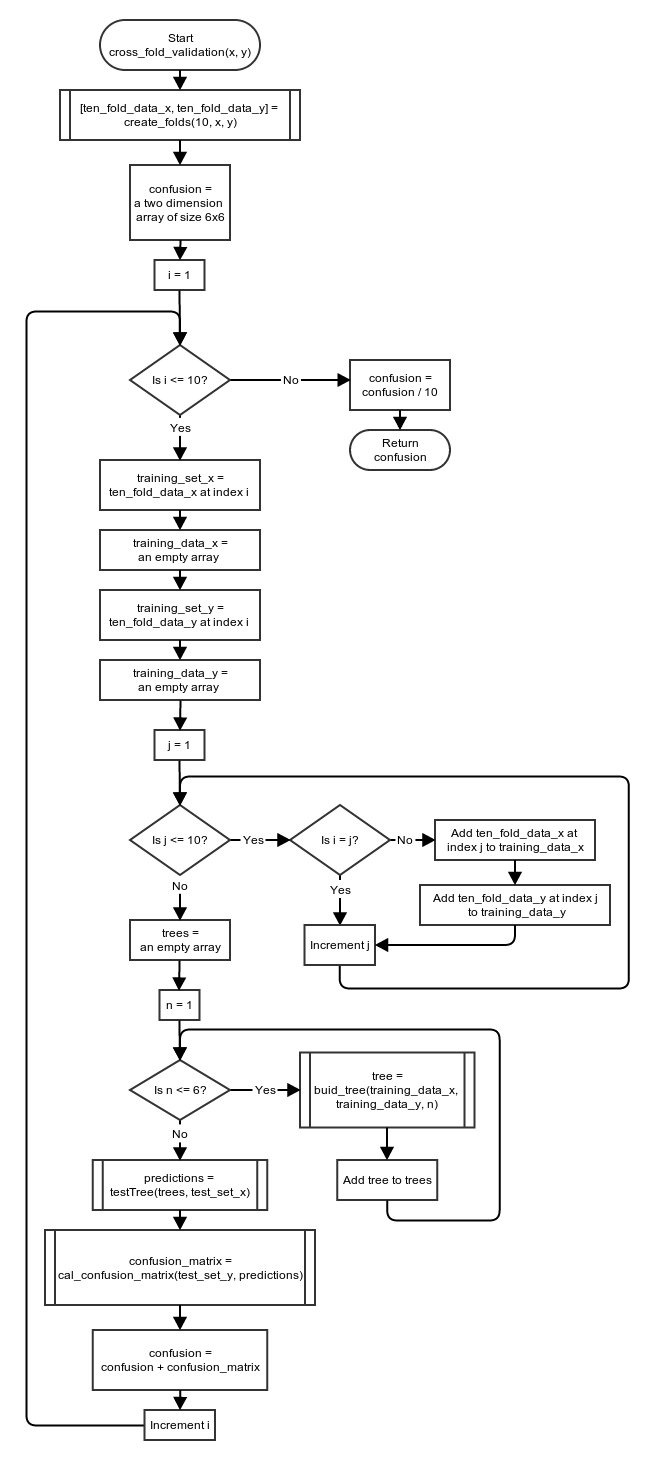
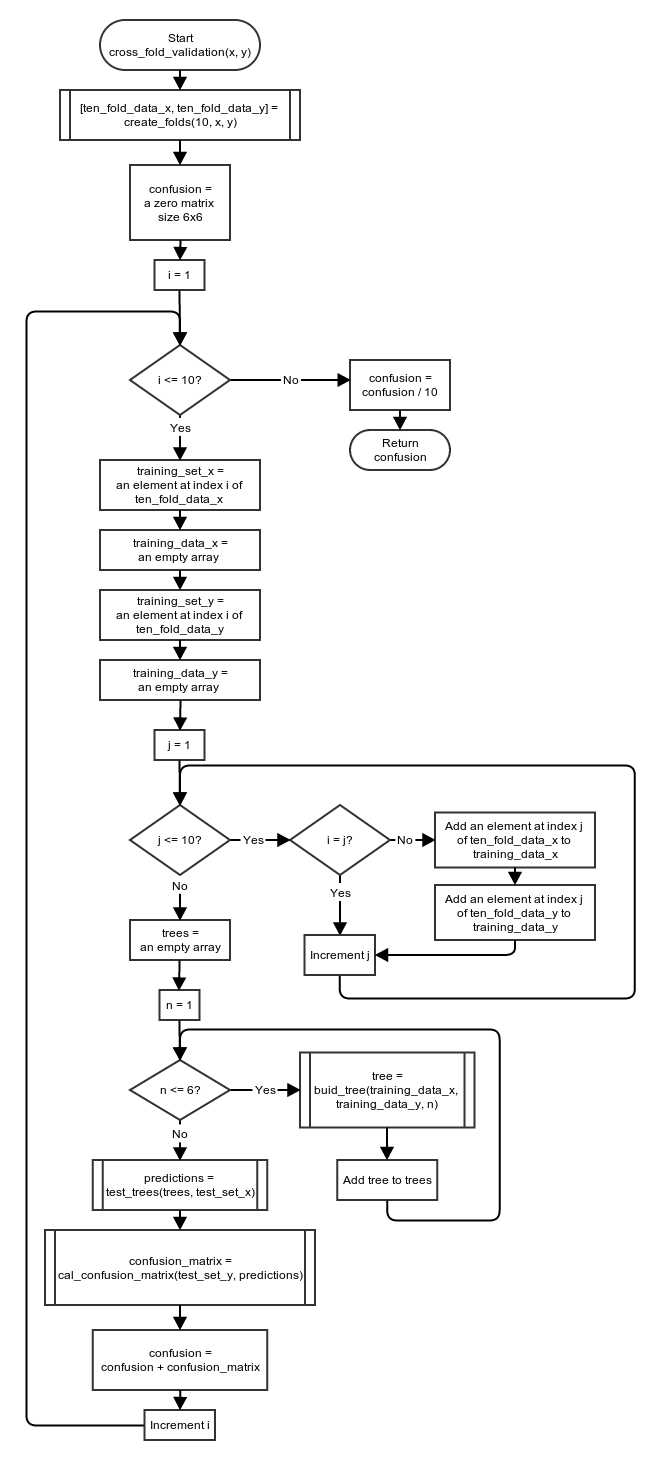
Add some eplanation of flowchart to implementation section

diff --git a/decisiontrees.tex b/decisiontrees.tex
@@ -16,19 +16,19 @@
 
 In order to gather statistical results of our algorithm and compare the performance of different approaches we implemented a few functions that would help us with this task.
 
-To perform 10-fold cross validation efficiently we implemented the function \texttt{cross\_fold \_validation(x, y)} which takes examples \texttt{x} and classifications \texttt{y} and returns a confusion matrix that was found by performing several tests using 10-fold cross validation. In this function, the set of examples are split into 10 folds, leaving out any extra examples so that each fold is of the same size. In 10 iterations the algorithm then removes one of the buckets as the test set and combines the rest into a training set (no validation set is required in this part of the coursework).The training set is then used to train a decision tree using the \texttt{build\_tree(training\_data\_x, training\_data\_y, attribute)} which build the decision tree for the given attribute using the given data (consisting of 9 folds). The function then tests the tree using the \texttt{testTrees} function which returns a vector of predictions. The predictions are then compared to the actual classifications and the results are added to a confusion matrix. After all values have been added from all ten folds the confusion matrix is turned into an average confusion matrix by simply dividing the values by 10 and returned to the user. 
+To perform 10-fold cross validation efficiently we implemented the function \texttt{cross\_fold \_validation(x, y)}(Figure~\ref{fig:cross_fold_validation}) which takes examples \texttt{x} and classifications \texttt{y} and returns a confusion matrix that was found by performing several tests using 10-fold cross validation. In this function, the set of examples are split into 10 folds using function {\tt create\_folds(10, x, y)}(Figure~\ref{fig:create_folds}), leaving out any extra examples so that each fold is of the same size. In 10 iterations the algorithm then removes one of the buckets as the test set and combines the rest into a training set (no validation set is required in this part of the coursework).The training set is then used to train a decision tree using the \texttt{build\_tree(training\_data\_x, training\_data\_y, attribute)}(Figure~\ref{fig:build_tree}) which build the decision tree for the given attribute using the given data (consisting of 9 folds). The given {\tt training\_data\_y} is converted into a vector of binary target using function {\tt binary\_filter}(Figure~\ref{fig:binary_filter}). The function then tests the trees using the \texttt{test\_trees} function(Figure~\ref{fig:test_trees}) which returns a vector of predictions by calling function {\tt test\_tree}(Figure~\ref{fig:test_tree}) for each tree. If there are more than one tree that return true, an aprropiate algorithm(first positive, random positive, or shortest path) will be applied. The predictions are then compared to the actual classifications and the results are added to a confusion matrix. After all values have been added from all ten folds the confusion matrix is turned into an average confusion matrix by simply dividing the values by 10 and returned to the user. 
 
-Note that this means that any error rate or other statistics given in this report is based on the average confusion matrix and not given in terms of the average of many calculations of that statistic over the course of the cross validation. 
+Note that this means that any error rate or other statistics given in this report is based on the average confusion matrix and not given in terms of the average of many calculations of that statistic over the course of the cross validation.
 % elaborate here?
 
-As part of the \texttt{build\_tree} function we implemented a function that selects the best attribute from a set of attributes on which to split the set of examples. This function (\texttt{choose\-\_best\-\_decision\-\_attribute(examples, attributes, binary\_targets)}) maximises the information gain of each possible split and thus returns the attribute that returns the largest information gain (n = negative examples, p = positive examples, $p_0$ = positive examples of the subset of data for which the attribute has a value 0, etc.):
+As part of the \texttt{build\_tree} function we implemented a function that selects the best attribute from a set of attributes on which to split the set of examples. This function (\texttt{choose\-\_best\-\_decision\-\_attribute(examples, attributes, binary\_targets)} in Figure~\ref{fig:choose_best_decision_attribute}) maximises the information gain of each possible split and thus returns the attribute that returns the largest information gain (n = negative examples, p = positive examples, $p_0$ = positive examples of the subset of data for which the attribute has a value 0, etc.):
 
 \begin{align}
 Gain(attribute)  &= I(p,n) - Remainder(attribute)\\
 I(p,n) &= -\left(\frac{p}{p+n}\right)\log_2{\left(\frac{p}{p+n}\right)} -\left(\frac{n}{p+n}\right)\log_2{\left(\frac{n}{p+n}\right)}\\
 Remainder(attribute) &= \frac{p_0 + n_0}{p+n}I(p_0,n_0) + \frac{p_1 + n_1}{p + n}I(p_1,n_1)
 \end{align}
-Note that in the implementation of $I(p,n)$ we check explicitly for the case when $p = 0$ or $n = 0$ as Matlab will otherwise return $NaN$ which will result in unbalanced trees. Also, for performance reasons we do not actually calculate the information gain but instead simply return the minimum value of the remainder.
+Note that in the implementation of $I(p,n)$ in Figure~\ref{fig:entropy} we check explicitly for the case when $p = 0$ or $n = 0$ as Matlab will otherwise return $NaN$ which will result in unbalanced trees. Also, for performance reasons we do not actually calculate the information gain but instead simply return the minimum value of the remainder(Figure~\ref{fig:remainder}).
 %Hector: maybe say we don't calculate gain for performance reasons, instead we just use the min of remainder?
 %elaborate here maybe?
 
@@ -294,96 +294,80 @@ As we can see in the graphs, the curves corresponding to clean data (figure \ref
 \end{figure}
 
 \section{Flowcharts}
+See Figure~\ref{fig:cross_fold_validation} for function {\tt cross\_fold\_validation}, Figure~\ref{fig:create_folds} for function {\tt create\_folds}, Figure~\ref{fig:build_tree} for function {\tt build\_tree}, 
+Figure~\ref{fig:binary_filter} for function {\tt binary\_filter}, Figure~\ref{fig:id3} for function {\tt decision\_tree\_learning}, Figure~\ref{fig:choose_best_decision_attribute} for function {\tt choose\_best\_decision\_attribute},
+Figure~\ref{fig:entropy} for function {\tt I}, Figure~\ref{fig:remainder} for function {\tt remainder}, Figure~\ref{fig:test_trees} for function {\tt test\_trees}, and Figure~\ref{fig:test_tree} for function {\tt test\_tree}.
 
-\begin{figure}[p]
-		\includegraphics[width=\textwidth, height=\textheight]{images/flow_chart/cross_fold_validation.png}
-     	\caption{Pruning Function Applied to Clean Data}
-     	\label{fig:pruningClean}
-\end{figure}
 
-\begin{figure}[p]
-		\includegraphics[width=\textwidth, height=\textheight]{images/flow_chart/create_folds.png}
-     	\caption{Pruning Function Applied to Clean Data}
-     	\label{fig:pruningClean}
+\begin{figure}[!ht]
+	\centering
+	\includegraphics[height=\textheight, width=\textwidth]{images/flow_chart/cross_fold_validation.png}
+	\caption{Flowchart of \tt{cross\_fold\_validation}}
+	\label{fig:cross_fold_validation}
 \end{figure}
 
 \begin{figure}[!ht]
 	\centering
-	\begin{subfigure}[b]{0.495\textwidth}
-		\includegraphics[width=\textwidth]{images/flow_chart/build_tree.png}
-     	\caption{Pruning Function Applied to Clean Data}
-     	\label{fig:pruningClean}
-    \end{subfigure}
-	\begin{subfigure}[b]{0.495\textwidth}
-		\includegraphics[width=\textwidth]{images/flow_chart/binary_filter.png}
-     	\caption{Pruning Function Applied to Noisy Data}
-     	\label{fig:pruningNoisy}
-    \end{subfigure}
-    \caption{Tree Pruning Example}
-    \label{fig:pruning}
-\end{figure}
-
-
-\begin{figure}[p]
-		\includegraphics[width=\textwidth, height=\textheight]{images/flow_chart/id3.png}
-     	\caption{Pruning Function Applied to Clean Data}
-     	\label{fig:pruningClean}
-\end{figure}
-
-\begin{figure}[p]
-		\includegraphics[width=\textwidth, height=\textheight]{images/flow_chart/id3.png}
-     	\caption{Pruning Function Applied to Clean Data}
-     	\label{fig:pruningClean}
+	\includegraphics[height=\textheight, width=10cm]{images/flow_chart/create_folds.png}
+	\caption{Flowchart of \tt{creat\_folds}}
+	\label{fig:create_folds}
 \end{figure}
 
 \begin{figure}[!ht]
 	\centering
-	\begin{subfigure}[b]{0.495\textwidth}
-		\includegraphics[width=\textwidth]{images/flow_chart/choose_best_decision_attribute.png}
-     	\caption{Pruning Function Applied to Clean Data}
-     	\label{fig:pruningClean}
-    \end{subfigure}
-	\begin{subfigure}[b]{0.495\textwidth}
-		\includegraphics[width=\textwidth]{images/flow_chart/entropy.png}
-     	\caption{Pruning Function Applied to Noisy Data}
-     	\label{fig:pruningNoisy}
-    \end{subfigure}
-    \caption{Tree Pruning Example}
-    \label{fig:pruning}
-\end{figure}
-
-\begin{figure}[p]
-		\includegraphics[width=\textwidth, height=\textheight]{images/flow_chart/remainder.png}
-     	\caption{Pruning Function Applied to Clean Data}
-     	\label{fig:pruningClean}
-\end{figure}
-
-\begin{figure}[p]
-		\includegraphics[width=\textwidth, height=\textheight]{images/flow_chart/testtrees.png}
-     	\caption{Pruning Function Applied to Clean Data}
-     	\label{fig:pruningClean}
-\end{figure}
-
-\begin{figure}[p]
-		\includegraphics[width=\textwidth, height=\textheight]{images/flow_chart/test_tree.png}
-     	\caption{Pruning Function Applied to Clean Data}
-     	\label{fig:pruningClean}
+	\includegraphics[height=11cm, width=10cm]{images/flow_chart/build_tree.png}
+	\caption{Flowchart of \tt{build\_tree}}
+	\label{fig:build_tree}
 \end{figure}
 
 \begin{figure}[!ht]
 	\centering
-	\begin{subfigure}[b]{0.495\textwidth}
-		\includegraphics[width=\textwidth]{images/flow_chart/depth_weight_label.png}
-     	\caption{Pruning Function Applied to Clean Data}
-     	\label{fig:pruningClean}
-    \end{subfigure}
-	\begin{subfigure}[b]{0.495\textwidth}
-		\includegraphics[width=\textwidth]{images/flow_chart/calc_confusion_matrix.png}
-     	\caption{Pruning Function Applied to Noisy Data}
-     	\label{fig:pruningNoisy}
-    \end{subfigure}
-    \caption{Tree Pruning Example}
-    \label{fig:pruning}
+	\includegraphics[height=11cm, width=10cm]{images/flow_chart/binary_filter.png}
+	\caption{Flowchart of \tt{binary\_filter}}
+	\label{fig:binary_filter}
+\end{figure}
+
+\begin{figure}[!ht]
+	\centering
+	\includegraphics[width=\textwidth, height=\textheight]{images/flow_chart/id3.png}
+	\caption{Flowchart of \tt{decision\_tree\_learning}}
+	\label{fig:id3}
+\end{figure}
+
+
+\begin{figure}[!ht]
+	\centering
+	\includegraphics[height=15cm, width=10cm]{images/flow_chart/choose_best_decision_attribute.png}
+	\caption{Flowchart of \tt{choose\_best\_decision\_attribute}}
+	\label{fig:choose_best_decision_attribute}
+\end{figure}
+
+\begin{figure}[!ht]
+	\centering
+	\includegraphics[height=7cm, width=8cm]{images/flow_chart/entropy.png}
+	\caption{Flowchart of \tt{entropy}}
+	\label{fig:entropy}
+\end{figure}
+
+\begin{figure}[!ht]
+	\centering
+	\includegraphics[width=8cm]{images/flow_chart/remainder.png}
+	\caption{Flowchart of \tt{remainder}}
+	\label{fig:remainder}
+\end{figure}
+
+\begin{figure}[!ht]
+	\centering
+	\includegraphics[height=\textheight]{images/flow_chart/test_trees.png}
+	\caption{Flowchart of \tt{test\_trees}}
+	\label{fig:test_trees}
+\end{figure}
+
+\begin{figure}[!ht]
+	\centering
+	\includegraphics[height=15cm, width=10cm]{images/flow_chart/test_tree.png}
+	\caption{Flowchart of \tt{test\_tree}}
+	\label{fig:test_tree}
 \end{figure}
 
 \end{document}

diff --git a/forstudents/trees.m b/forstudents/trees.m
@@ -32,7 +32,7 @@ function [confusion] = cross_fold_validation(x, y)
         for n = 1:6,
             trees{n} = build_tree(training_data_x, training_data_y, n);
         end
-        predictions = testTrees(trees, test_set_x);
+        predictions = test_trees(trees, test_set_x);
         confusion = confusion + calc_confusion_matrix(test_set_y, predictions);
     end
     confusion = confusion / 10;
